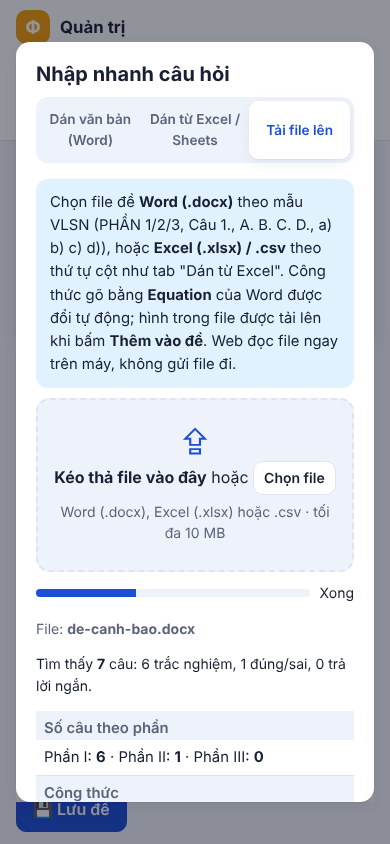
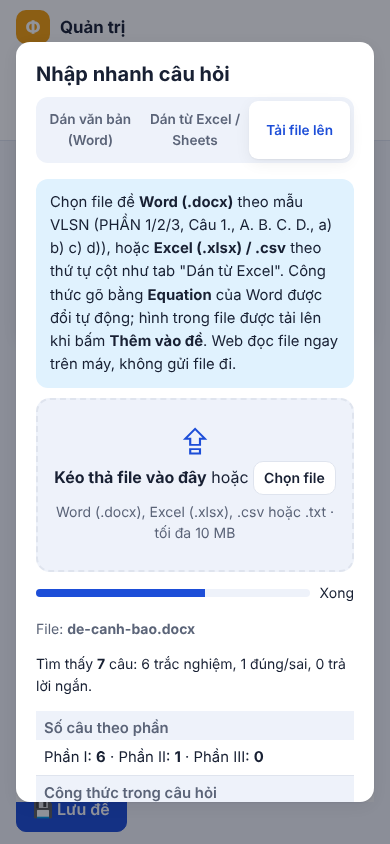
Pha 3: soát code vòng 2 (ĐẠT); kiểm thử vòng 2 đang chạy (lưu tạm)
Claude-Session: https://claude.ai/code/session_01BBCuQ1sSV2ojmqNhomXWAj

Changed region(s): [[0.1538, 0.5853, 0.8615, 0.6469], [0.3077, 0.9242, 0.5538, 0.955], [0.3385, 0.6777, 0.5231, 0.7085]]

diff --git a/tests/pha3-kiem-thu.e2e.js b/tests/pha3-kiem-thu.e2e.js
@@ -399,6 +399,79 @@ async function runMode(browser, compat) {
     const x2 = await ad.evaluate(() => ({ run: !!(window.__kt1 || window.__kt2 || window.__kt3 || window.__kt4), inj: document.querySelectorAll('main img[src="x"], main b[onmouseover]').length }));
     verdict('An toàn HTML trong file', !x1.run && !x1.inj && x1.txt && !x2.run && !x2.inj, `xem trước: mã chạy ${x1.run}, phần tử chèn ${x1.inj}, chữ hiện nguyên văn ${x1.txt}; trình soạn: mã chạy ${x2.run}, phần tử chèn ${x2.inj}`);
 
+    // ================= Vòng 2 =================
+    // .txt đọc như Dán văn bản; trình soạn giống hệt dán
+    await newEditor(ad, B);
+    await pasteImport(ad, 'text', M.exam28Lines().join('\n'));
+    const sP = await editorState(ad);
+    await openFileTab(ad);
+    await upload(ad, 'de.txt', Buffer.from(M.exam28Lines().join('\r\n'), 'utf8'), 'text/plain');
+    const rTxt = await resultText(ad);
+    await addToExam(ad, true);
+    const sT = await editorState(ad);
+    verdict('V2 .txt như Dán văn bản', /Tìm thấy\s*28/.test(rTxt) && JSON.stringify(sP) === JSON.stringify(sT), `.txt → "${(rTxt.match(/Tìm thấy[^\n]*/) || [''])[0]}"; trình soạn giống dán văn bản: ${JSON.stringify(sP) === JSON.stringify(sT)}`);
+    // csv sai cột → cảnh báo câu thiếu nội dung trong bảng kết quả
+    await openFileTab(ad);
+    await upload(ad, 'mot-cot.csv', Buffer.from('Câu 1. Một câu hỏi\nCâu 2. Câu khác'), 'text/csv');
+    const wCsv = await ad.$eval('#impWarn', (e) => e.innerText).catch(() => '');
+    verdict('V2 cảnh báo câu thiếu nội dung', /Câu 1[^\n]*không có nội dung/.test(wCsv) && /Câu 2[^\n]*không có nội dung/.test(wCsv), `csv một cột → "${wCsv.replace(/\n/g, ' / ').slice(0, 160)}"`);
+    // Kéo thả lọc đuôi: thả .pdf / .png → "Chỉ nhận…"; thả .docx → đọc được
+    const dropFile = async (name, b64, type) => ad.evaluate(async ({ name, b64, type }) => {
+      const bin = Uint8Array.from(atob(b64), (c) => c.charCodeAt(0));
+      const dt = new DataTransfer(); dt.items.add(new File([bin], name, { type }));
+      const z = document.querySelector('#impDrop');
+      ['dragenter', 'dragover', 'drop'].forEach((t) => z.dispatchEvent(new DragEvent(t, { bubbles: true, cancelable: true, dataTransfer: dt })));
+      await new Promise((r) => setTimeout(r, 900));
+      return document.querySelector('#impResult').innerText;
+    }, { name, b64: b64, type });
+    const dPdf = await dropFile('de.pdf', Buffer.from('%PDF-1.4').toString('base64'), 'application/pdf');
+    const dPng = await dropFile('anh.png', M.png(4, 4, [1, 2, 3]).toString('base64'), 'image/png');
+    const dDoc = await dropFile('de.docx', (await docx28()).toString('base64'), DOCX);
+    verdict('V2 kéo thả lọc đuôi', /Chỉ nhận/.test(dPdf) && /Chỉ nhận/.test(dPng) && /Tìm thấy\s*28/.test(dDoc), `thả .pdf → "${dPdf.replace(/\n/g, ' ').slice(0, 90)}"; thả .png → "${dPng.replace(/\n/g, ' ').slice(0, 60)}"; thả .docx → "${(dDoc.match(/Tìm thấy[^\n]*/) || ['?'])[0]}"`);
+    await ad.click('.modal [data-close]'); await ad.waitForTimeout(200);
+    // "Công thức trong câu hỏi": công thức ngoài câu (đầu đề) không tính
+    await newEditor(ad, B);
+    await openFileTab(ad);
+    const nBuf = await M.docx({ body: [p(t('Cho biết '), math(O.r('g=9,8')), t(' và '), math(O.r('R=8,31'))), pText('PHẦN I'), p(t('Câu 1. Tính '), math(O.r('F=ma'))), pText('A. a'), pText('B. b'), pText('C. c'), pText('D. d'), pText('Đáp án: A')].join('') });
+    await upload(ad, 'ngoai-cau.docx', nBuf, DOCX);
+    const rN = await resultText(ad);
+    const rowN = (rN.match(/Công thức[^\n]*\n?[^\n]*/) || [''])[0].replace(/\n/g, ' ');
+    verdict('V2 dòng "Công thức trong câu hỏi"', /Công thức trong câu hỏi/.test(rN) && /Đã đổi:\s*1\b/.test(rN), `2 công thức ở "Cho biết" trước PHẦN + 1 trong câu → "${rowN}"`);
+    await ad.click('.modal [data-close]'); await ad.waitForTimeout(200);
+    // Tải hình lỗi → câu vẫn thêm, nhãn "hình cần chụp lại" trong trình soạn
+    await newEditor(ad, B);
+    await ad.route(/\/exec$/, (route) => {
+      const body = route.request().postData() || '';
+      if (/"adminUploadImage"/.test(body)) return route.fulfill({ status: 200, contentType: 'application/json', headers: { 'Access-Control-Allow-Origin': '*' }, body: JSON.stringify({ ok: false, error: 'Lỗi giả lập khi tải hình' }) });
+      return route.continue();
+    });
+    await openFileTab(ad);
+    await upload(ad, 'de-hinh.docx', await docxImg(), DOCX);
+    await ad.click('#impReplace');
+    await ad.waitForFunction(() => !document.querySelector('.modal #impResult'), null, { timeout: 30000 }).catch(() => {});
+    await ad.waitForTimeout(500);
+    const hl2 = await ad.evaluate(() => ({ n: document.querySelectorAll('.qedit').length, modal: !!document.querySelector('.modal #impResult'), lab: [...document.querySelectorAll('.qedit')].map((q, i) => (q.querySelector('[data-hinhloi]') ? (i + 1) + ':' + q.querySelector('[data-hinhloi]').textContent.trim() : null)).filter(Boolean), msg: [...document.querySelectorAll('.toast, .modal')].map((e) => e.innerText).join(' | ').slice(0, 200) }));
+    await ad.unroute(/\/exec$/);
+    if (hl2.modal) { await ad.click('.modal [data-close]').catch(() => {}); }
+    if (!compat) { const el = (await ad.$$('.qedit'))[4]; if (el) { await el.scrollIntoViewIfNeeded(); await shot(ad, '10-nhan-hinh-loi'); } }
+    verdict('V2 nhãn "hình cần chụp lại" khi tải hình lỗi', hl2.n === 6 && hl2.lab.length === 2 && /^2:/.test(hl2.lab[0]) && /^5:.*2 hình/.test(hl2.lab[1]),
+      `adminUploadImage trả lỗi → ${hl2.n} câu vẫn vào trình soạn, nhãn: ${JSON.stringify(hl2.lab)}; thông báo: "${hl2.msg.replace(/\n/g, ' ').slice(0, 120)}"`);
+    // Bom nén / XML độc trong giao diện → báo tiếng Việt, trang không treo
+    await newEditor(ad, B);
+    await openFileTab(ad);
+    const zb = new M.JSZip(); zb.file('[Content_Types].xml', '<Types/>'); zb.file('word/document.xml', '<w:document xmlns:w="http://schemas.openxmlformats.org/wordprocessingml/2006/main"><w:body><w:p><w:r><w:t>' + ' '.repeat(80 * 1024 * 1024) + '</w:t></w:r></w:p></w:body></w:document>');
+    const bomb = await zb.generateAsync({ type: 'nodebuffer', compression: 'DEFLATE', compressionOptions: { level: 9 } });
+    const zq = new M.JSZip(); zq.file('word/document.xml', '<w:document><w:body><w:p ' + 'a="<b '.repeat(50000) + '</w:body></w:document>');
+    const quad = await zq.generateAsync({ type: 'nodebuffer', compression: 'DEFLATE' });
+    for (const [name, buf] of [['bom nén 80 MB', bomb], ['XML 50 000 thuộc tính hỏng', quad]]) {
+      const t0 = Date.now(); let txt = '';
+      try { await upload(ad, 'bom.docx', buf, DOCX); } catch (e) { /* đọc lại bên dưới */ }
+      txt = await resultText(ad);
+      const alive = await Promise.race([ad.evaluate(() => 1), new Promise((r) => setTimeout(() => r(0), 2000))]);
+      verdict('V2 file hỏng / bom nén', alive === 1 && Date.now() - t0 < 6000 && /bất thường|hỏng|Tìm thấy\s*0|Không/.test(txt), `${name} (${(buf.length / 1024).toFixed(0)} KB) → "${txt.replace(/\n/g, ' ').slice(0, 130)}" sau ${Date.now() - t0} ms; trang còn phản hồi: ${alive === 1}`);
+    }
+    await ad.click('.modal [data-close]'); await ad.waitForTimeout(200);
+
     // ---- TC-3.11: tải docx → lưu đề → học sinh làm được ----
     const title = 'KT Pha 3 ' + (compat ? '1.0.0' : 'mới') + ' — đề tải từ Word';
     await newEditor(ad, B);

diff --git a/tests/pha3-kiem-thu.test.js b/tests/pha3-kiem-thu.test.js
@@ -310,13 +310,57 @@ async function k1() {
   }
 }
 
+// ---- Vòng 2: kiểm theo thay đổi người dùng thấy ----
+async function v2() {
+  // .txt đọc như "Dán văn bản"
+  const lines = M.exam28Lines();
+  const rt = await D.readFile('de.txt', Buffer.from(lines.join('\r\n'), 'utf8'), LIB);
+  let same = true; try { assert.deepStrictEqual(rt.questions, I.fromText(lines.join('\n')).questions); } catch (e) { same = false; }
+  verdict('V2 .txt như Dán văn bản', same && rt.questions.length === 28, `.txt đề 28 câu → ${rt.questions.length} câu, giống fromText: ${same}`);
+  // Câu thiếu nội dung (csv/xlsx sai cột) → cảnh báo có số câu
+  const rc = await D.readFile('mot-cot.csv', Buffer.from('Câu 1. Một câu hỏi\nCâu 2. Câu khác'), LIB);
+  const rx = await D.readFile('lech.xlsx', M.xlsx([['TN', '', 'a', 'b', 'c', 'd', 'A'], ['TN', 'Có nội dung', 'a', 'b', 'c', 'd', 'B']]), LIB);
+  const wc = rc.warnings.join(' | '), wx = rx.warnings.join(' | ');
+  verdict('V2 cảnh báo câu thiếu nội dung', /Câu 1\b[^|]*không có nội dung/.test(wc) && /Câu 2\b[^|]*không có nội dung/.test(wc) && /Câu 1\b[^|]*không có nội dung/.test(wx) && !/Câu 2\b[^|]*không có nội dung/.test(wx),
+    `csv một cột: "${wc.slice(0, 160)}"; xlsx câu 1 trống: "${wx.slice(0, 120)}"`);
+  // "Chọn câu đúng." / "Chọn phát biểu đúng:" là câu dẫn, không thành đáp án; "Lời giải: Chọn B." vẫn là đáp án
+  const body = [pText('PHẦN I'),
+    pText('Câu 1. Chọn câu đúng.'), pText('A. x'), pText('B. y'), pText('C. z'), pText('D. t'),
+    pText('Câu 2. Một vật rơi tự do.'), pText('Chọn phát biểu đúng:'), pText('A. x'), pText('B. y'), pText('C. z'), pText('D. t'),
+    pText('Câu 3. Chọn đáp án đúng nhất.'), pText('A. x'), pText('B. y'), pText('C. z'), pText('D. t'), pText('Lời giải: Chọn B.'),
+    pText('Câu 4. Chọn C là sai vì'), pText('A. x'), pText('B. y'), pText('C. z'), pText('D. t'), pText('Đáp án: D')].join('');
+  const qs = D.toQuestions(await read(await M.docx({ body })), I).questions;
+  const ks = qs.map((q) => q.dapAn || '-').join(',');
+  verdict('V2 câu dẫn "Chọn …" không thành đáp án', qs.length === 4 && ks === '-,-,B,D' && /Chọn câu đúng/.test(qs[0].noiDung) && /Chọn phát biểu đúng/.test(qs[1].noiDung),
+    `đáp án 4 câu: ${ks} (mong -,-,B,D); câu 1 nội dung "${qs[0].noiDung}", câu 2 "${qs[1].noiDung.replace(/\n/g, ' / ')}"`);
+  // File hỏng / bom nén / XML độc → báo tiếng Việt, không treo
+  const vi = /[ăâđêôơưạảấầẩẫậắằẳẵặẹẻẽếềểễệỉịọỏốồổỗộớờởỡợụủứừửữựáàãéèíìóòõúùýĐ]/;
+  const zipWith = async (xml, extra) => { const z = new M.JSZip(); z.file('[Content_Types].xml', '<Types/>'); z.file('word/document.xml', xml); if (extra) extra(z); return z.generateAsync({ type: 'nodebuffer', compression: 'DEFLATE', compressionOptions: { level: 9 } }); };
+  const W = `<w:document ${'xmlns:w="http://schemas.openxmlformats.org/wordprocessingml/2006/main"'}><w:body>`;
+  const cases = [
+    ['bom nén: document.xml 80 MB', await zipWith(W + '<w:p><w:r><w:t>' + ' '.repeat(80 * 1024 * 1024) + '</w:t></w:r></w:p></w:body></w:document>')],
+    ['bom nén: 10 phần 8 MB', await zipWith(W + '<w:p/></w:body></w:document>', (z) => { for (let i = 0; i < 10; i++) z.file(`word/media/x${i}.png`, Buffer.alloc(8 * 1024 * 1024)); })],
+    ['lồng sâu 200 000 tầng', await zipWith(W + '<w:sdt>'.repeat(200000) + '</w:body></w:document>')],
+    ['50 000 thuộc tính hỏng', await zipWith(W + '<w:p ' + 'a="<b '.repeat(50000) + '</w:body></w:document>')],
+    ['100 000 dấu "<" lẻ', await zipWith(W + '<'.repeat(100000) + '</w:body></w:document>')],
+    ['chú thích không đóng', await zipWith(W + '<!-- ' + 'x'.repeat(1e6))]
+  ];
+  for (const [name, buf] of cases) {
+    const t0 = Date.now(); let msg = null, res = null;
+    try { res = await Promise.race([D.readFile('bom.docx', buf, LIB), new Promise((_, rej) => setTimeout(() => rej(new Error('__TREO__')), 8000))]); } catch (e) { msg = e.message; }
+    const ms = Date.now() - t0;
+    const ok = msg ? msg !== '__TREO__' && vi.test(msg) && !/TypeError|Cannot read|Maximum call/.test(msg) : (res && Array.isArray(res.questions));
+    verdict('V2 file hỏng / bom nén', ok && ms < 5000, `${name} (${(buf.length / 1024).toFixed(0)} KB) → ${msg ? '"' + msg.slice(0, 110) + '"' : 'đọc xong, ' + res.questions.length + ' câu, không lỗi'} (${ms} ms)`);
+  }
+}
+
 function tc313() {
   const r = spawnSync(process.execPath, [path.join(__dirname, 'importer.test.js')], { encoding: 'utf8', env: process.env });
   verdict('TC-3.13', r.status === 0, `node tests/importer.test.js → mã thoát ${r.status}; ${(r.stdout + r.stderr).trim().split('\n').slice(-2).join(' / ').slice(0, 160)}`);
 }
 
 (async () => {
-  const steps = [tc31, tc32, tc33, tc34, tc35, tc36, tc37, tc38, tc39, tc310, k1, tc313];
+  const steps = [tc31, tc32, tc33, tc34, tc35, tc36, tc37, tc38, tc39, tc310, k1, v2, tc313];
   for (const s of steps) {
     try { await s(); } catch (e) { verdict(s.name.replace('tc3', 'TC-3.'), false, 'LỖI KỊCH BẢN: ' + (e.stack || e).toString().slice(0, 300)); }
   }

diff --git a/docs/bao-cao/pha-3-soat.md b/docs/bao-cao/pha-3-soat.md
@@ -69,3 +69,45 @@ Không có phát hiện Nặng. Có 3 phát hiện **Vừa** nên sửa trước
 ## Ghi chú
 - Đã chạy e2e trên cổng 8795 (máy chủ 1.0.0) rồi tắt đúng tiến trình đó. Không đụng file của người kiểm thử.
 - Script và file thử nằm trong thư mục nháp của phiên (`soat/`). Không đưa vào repo, không chép nội dung đề thật.
+
+---
+
+## Vòng 2 (soát lại, 19/11/2026)
+
+Phạm vi: `git diff 7cb813a..b5a4757` (1 commit b5a4757) và mục "Vòng 2" trong `docs/bao-cao/pha-3.md`.
+
+Test chạy lại trên `b5a4757`:
+- `node tests/importer.test.js`: đạt.
+- `node tests/backend.test.js`: 13/13 đạt.
+- `node tests/docx.test.js`: 27/27 đạt.
+- `node tests/pha3-kiem-thu.test.js` (của người kiểm thử, chỉ chạy, không sửa): 17/17 nhóm đạt.
+- `tests/docx.e2e.js` trên cổng 8795: ĐẠT ở **cả hai** chế độ máy chủ (mới và `SERVER_COMPAT=1.0.0`). Gồm R-7, R-10, R-11, và TC-3.11 (lưu 28 câu → học sinh làm và nộp bài). Sau đó đã tắt đúng tiến trình cổng 8795.
+- Chạy lại các script tái hiện trong thư mục nháp `soat/`:
+  - `xml.js`, `bomb.js` (deep, deepbody, quad, bomb), `ft.js`, `om.js`.
+  - `real.js` trên 4 file thật: kết quả không đổi (28/44/22/28 câu, 525/525 công thức, 0 đáp án sai kiểu).
+  - `xss.e2e.js`: vẫn 0 lần chạy mã, 0 thuộc tính `onerror`.
+
+### Kết luận Vòng 2: **ĐẠT**
+Cả 3 phát hiện Vừa (R-1, R-2, R-3) đã sửa đúng. Các phát hiện Nhẹ đều đã sửa hoặc ghi rủi ro hợp lý. K-1 của người kiểm thử đã sửa. Có 2 phát hiện mới, đều Nhẹ và không chặn gộp.
+
+| Mã | Trạng thái | Bằng chứng |
+|---|---|---|
+| R-1 | **Đã sửa** | Regex mới có cờ `u`, chỉ nhận chữ hoa, dùng `(?![\p{L}\d])`, và chỉ nhận khi sau chữ cái không còn gì (hoặc là "Lời giải …"). Thử 7 câu dẫn: "Chọn câu đúng." / "Chọn câu sai:" / "Chọn cách làm đúng:" / "Chọn dãy đúng." / "Chọn đáp án đúng." đều giữ nguyên trong nội dung, `dapAn` rỗng, có cảnh báo "chưa tìm thấy đáp án". "Chọn B." → B. "Chọn D, vì x" không được nhận là đáp án (thận trọng, có cảnh báo). Chấp nhận. |
+| R-2 | **Đã sửa** | Không có tiêu đề PHẦN thì ghép theo thứ tự. Ca tái hiện cũ: lời giải và "Đáp án: B" nay gắn vào câu Phần I, câu Phần III không nhận gì và có cảnh báo. "Câu 1 … Đáp án: B / Câu 1 … Đáp số: 5" lần lượt vào Phần I (B) và Phần III (5). Đáp án lấy từ lời giải mà không hợp loại câu thì bị bỏ và cảnh báo. Khi có tiêu đề PHẦN thì khớp theo (phần, số). |
+| R-3 | **Đã sửa** | Với `xml.js`, N = 2 000 / 4 000 / 8 000 / 16 000 mất 2 / 3 / 4 / 6 ms (vòng 1: 56 / 211 / 888 / 3 323 ms). `bomb.js quad` (docx 757 B): 26 ms (vòng 1: 12 522 ms). Không còn thành phần nào của regex nhận `<`. Chú thích và CDATA tìm điểm kết thúc bằng `indexOf`. Thời gian tuyến tính. |
+| R-4 | **Đã sửa (còn kẽ hở nhỏ, xem N-2)** | `bomb.js bomb` (195 KB → 200 MB): bị chặn sau 4 ms với thông báo tiếng Việt "File Word bất thường: khi giải nén quá lớn (191 MB)…". `bomb.js deepbody`: "File bất thường (cấu trúc lồng quá sâu hoặc quá lớn)…". |
+| R-5 | **Đã sửa** | `"$1,6.10^{-19}$ C"` và `"2,5.10^5"` nay có cảnh báo "đáp án Phần III … không phải số — máy không chấm được, hãy sửa". |
+| R-6 | **Chấp nhận** | Giữ 0.18.5 theo đặc tả (bản mới chỉ có trên CDN ngoài danh sách cho phép). Không thêm SRI vì chưa so được băm thật trên CDN. Rủi ro đã ghi trong báo cáo người làm. Kiểm URL CDN trên trang thật ở Pha 6. |
+| R-7 | **Đã sửa** | `admin.js` 659: câu có hình tải lỗi được gắn `hinhLoi`. e2e "R-7" đạt ở cả hai chế độ. |
+| R-8 | **Đã sửa** | `$` thành `\char36` (trong `\text{}` thành `\textdollar`), KaTeX `throwOnError` vẽ được. "x − −y" thành `x - -y`. |
+| R-9 | **Đã sửa** | `docs/QUYET-DINH.md` không còn id file kho (bỏ ở commit 7cb813a). Bảng file thật trong `pha-3.md` đổi thành "File 1–4" + mô tả chung. |
+| R-10 | **Đã sửa** | `logout()` xóa thêm `ld_bank_so`. e2e "R-13/R-10" đạt. |
+| R-11 | **Đã sửa** | Mime ngoài png/jpeg/gif/webp thì `shrinkImage(blob, true)` vẽ lại qua canvas. e2e: hình BMP được gửi dạng `image/jpeg`. |
+| K-1 | **Đã sửa** | .txt đọc như tab "Dán văn bản" (`fromText`). `fromRows`/`fromTsv`/`fromCsv` cảnh báo hàng không có nội dung. Kéo thả lọc đuôi giống ô chọn file. Nhóm K-1 trong `pha3-kiem-thu.test.js` nay đạt. Dữ liệu cũ hợp lệ không sinh cảnh báo mới (đã thử TSV/hàng đúng mẫu → `warnings: []`). |
+| N-1 | **Đã sửa** | Bảng kết quả chỉ đếm công thức nằm trong câu ("Công thức trong câu hỏi"). |
+
+### Phát hiện mới (Nhẹ, không chặn)
+| Mã | Mức | File:dòng | Mô tả | Tái hiện | Đề xuất |
+|---|---|---|---|---|---|
+| N-2 | Nhẹ | `assets/js/docx-reader.js` 509–513 (kiểm `_data.uncompressedSize`), 514 (`get`) | Phần chặn bom nén dựa vào kích thước **do chính file khai báo** trong mục lục zip. File độc khai báo sai (vd 1 000 byte) thì qua được bước kiểm. JSZip vẫn giải nén hết vào bộ nhớ rồi mới báo lỗi tiếng Anh "Bug : uncompressed data size mismatch". Lỗi này ném ra trong `get()`, ngoài khối `try` của `loadAsync`, nên thông báo không được Việt hóa. File 10 MB khai báo sai vẫn có thể làm tab hết bộ nhớ. Chỉ gặp khi có người cố ý làm file độc; trang chỉ giáo viên dùng. | `soat/lie.js 200`: docx 195 KB khai báo 1 000 B → giải nén 200 MB rồi báo "Bug : uncompressed data size mismatch" (695 ms, khoảng 207 MB bộ nhớ). | (a) Bọc `get()` trong `try` và đổi lỗi thành "File Word bị hỏng…". (b) Nếu muốn chặn hẳn: đọc bằng `f.internalStream('uint8array')`, đếm byte, quá `MAX_XML` thì `pause()` rồi báo lỗi. |
+| N-3 | Nhẹ | `assets/js/importer.js` 142–157 (nhánh `ended`) | Sau "HẾT", nếu lời giải viết cùng dòng với số câu ("Câu 1. Lời giải: Chọn B.") thì phần `rest` được ghi nguyên vào lời giải, không bỏ nhãn "Lời giải:". Vì vậy không lấy được đáp án "Chọn B". Câu vẫn có cảnh báo "chưa tìm thấy đáp án", không sai âm thầm. Lỗi này có từ vòng 1. | `fromText('PHẦN 1\nCâu 1. a?\nA. 1\nB. 2\nC. 3\nD. 4\n---------- HẾT ----------\nCâu 1. Lời giải: Chọn B.')` → `dapAn: ""`, `loiGiai: "Lời giải: Chọn B."`. | Cho `rest` đi qua cùng xử lý `lm2`/`am2` như các dòng sau (bỏ nhãn, nhận "Đáp án:"). |
